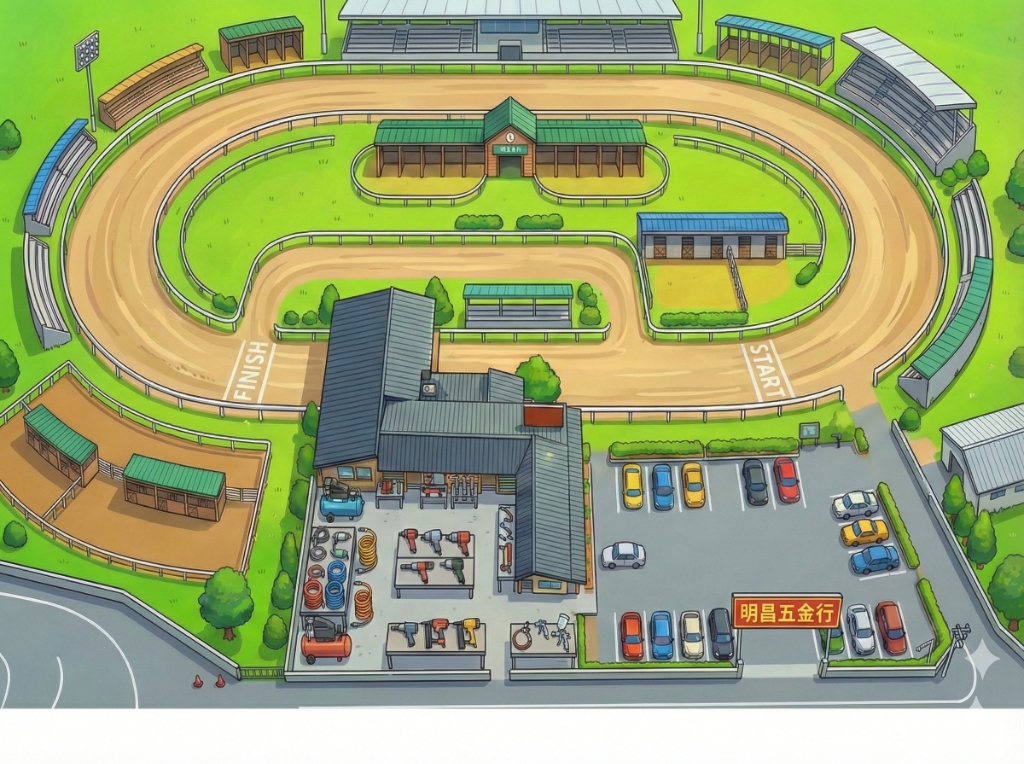
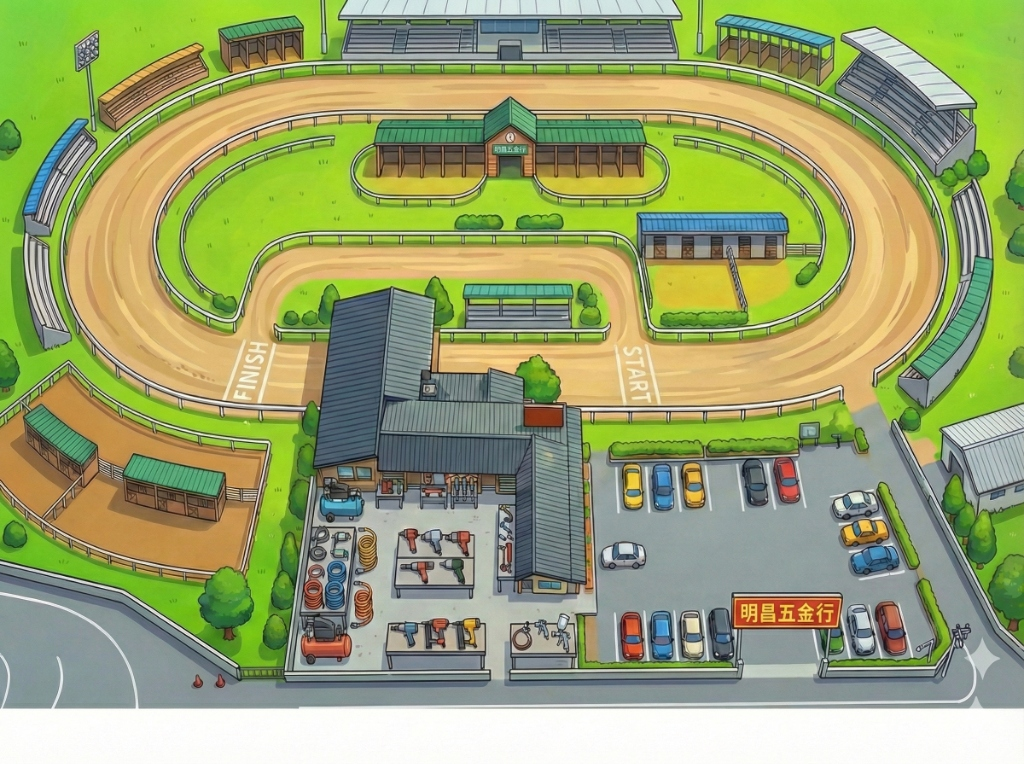
feat: 新增賽道路徑編輯器工具 (/path-editor) 與更新明昌背景圖

diff --git a/templates/path_editor.html b/templates/path_editor.html
@@ -1,0 +1,227 @@
+<!DOCTYPE html>
+<html>
+
+<head>
+    <title>Race Track Path Editor</title>
+    <style>
+        body {
+            font-family: Arial, sans-serif;
+            margin: 20px;
+            background: #f0f0f0;
+        }
+
+        .container {
+            display: flex;
+            flex-direction: column;
+            align-items: center;
+        }
+
+        .editor-area {
+            position: relative;
+            margin-top: 20px;
+            border: 2px solid #333;
+            cursor: crosshair;
+        }
+
+        #track-image {
+            max-width: 1000px;
+            width: 100%;
+            /* Responsive width */
+            display: block;
+        }
+
+        #canvas-overlay {
+            position: absolute;
+            top: 0;
+            left: 0;
+            width: 100%;
+            height: 100%;
+            pointer-events: none;
+            /* Let clicks pass through to image or wrapper */
+        }
+
+        .controls {
+            margin-top: 20px;
+            padding: 20px;
+            background: white;
+            border-radius: 8px;
+            box-shadow: 0 2px 5px rgba(0, 0, 0, 0.1);
+            width: 80%;
+            max-width: 800px;
+        }
+
+        textarea {
+            width: 100%;
+            height: 150px;
+            margin-top: 10px;
+            font-family: monospace;
+        }
+
+        button {
+            padding: 8px 16px;
+            background: #007bff;
+            color: white;
+            border: none;
+            border-radius: 4px;
+            cursor: pointer;
+            margin-right: 10px;
+        }
+
+        button:hover {
+            background: #0056b3;
+        }
+
+        button.reset {
+            background: #dc3545;
+        }
+
+        button.reset:hover {
+            background: #c82333;
+        }
+
+        .instructions {
+            margin-bottom: 10px;
+            color: #555;
+        }
+    </style>
+</head>
+
+<body>
+    <div class="container">
+        <h1>賽道以路徑編輯器 (Path Editor)</h1>
+
+        <div class="controls">
+            <div class="instructions">
+                <strong>使用說明：</strong><br>
+                1. 在下方的賽道圖上依序點擊，設定路徑點 (從 0 到 9)。<br>
+                2. 點擊 0 是起點，9 是終點，中間是轉折點。<br>
+                3. 完成後，複製下方的座標代碼，傳送給 AI。
+            </div>
+            <div>
+                <button onclick="undoLastPoint()">復原上一步 (Undo)</button>
+                <button class="reset" onclick="resetPath()">全部重設 (Reset)</button>
+            </div>
+
+            <h3>輸出座標 (JSON)</h3>
+            <textarea id="output" readonly></textarea>
+        </div>
+
+        <div class="editor-area" id="editor-area" onclick="handleMapClick(event)">
+            <img id="track-image" src="/static/images/mingchang_track.jpg" alt="Mingchang Track">
+            <canvas id="canvas-overlay"></canvas>
+        </div>
+    </div>
+
+    <script>
+        const trackImage = document.getElementById('track-image');
+        const canvas = document.getElementById('canvas-overlay');
+        const ctx = canvas.getContext('2d');
+        const output = document.getElementById('output');
+
+        let waypoints = [];
+
+        // Resize canvas to match image when loaded
+        trackImage.onload = function () {
+            resizeCanvas();
+        };
+        window.addEventListener('resize', resizeCanvas);
+
+        function resizeCanvas() {
+            canvas.width = trackImage.clientWidth;
+            canvas.height = trackImage.clientHeight;
+            drawPath();
+        }
+
+        function handleMapClick(event) {
+            const rect = trackImage.getBoundingClientRect();
+            // Get click position relative to the image
+            const x = event.clientX - rect.left;
+            const y = event.clientY - rect.top;
+
+            // Convert to percentage (0-100)
+            const percentX = Math.round((x / rect.width) * 100);
+            const percentY = Math.round((y / rect.height) * 100);
+
+            addPoint(percentX, percentY);
+        }
+
+        function addPoint(x, y) {
+            if (waypoints.length >= 10) {
+                alert("已達到最大點數 (10點: 0-9)。請復原或重設。");
+                return;
+            }
+            waypoints.push({ x: x, y: y });
+            updateOutput();
+            drawPath();
+        }
+
+        function undoLastPoint() {
+            waypoints.pop();
+            updateOutput();
+            drawPath();
+        }
+
+        function resetPath() {
+            waypoints = [];
+            updateOutput();
+            drawPath();
+        }
+
+        function drawPath() {
+            ctx.clearRect(0, 0, canvas.width, canvas.height);
+
+            if (waypoints.length === 0) return;
+
+            const width = canvas.width;
+            const height = canvas.height;
+
+            // Draw lines
+            ctx.beginPath();
+            ctx.lineWidth = 3;
+            ctx.strokeStyle = 'red';
+
+            waypoints.forEach((p, index) => {
+                const px = (p.x / 100) * width;
+                const py = (p.y / 100) * height;
+
+                if (index === 0) {
+                    ctx.moveTo(px, py);
+                } else {
+                    ctx.lineTo(px, py);
+                }
+            });
+            ctx.stroke();
+
+            // Draw points
+            waypoints.forEach((p, index) => {
+                const px = (p.x / 100) * width;
+                const py = (p.y / 100) * height;
+
+                ctx.beginPath();
+                ctx.arc(px, py, 8, 0, 2 * Math.PI);
+                ctx.fillStyle = 'yellow';
+                ctx.fill();
+                ctx.stroke();
+
+                // Draw number
+                ctx.fillStyle = 'black';
+                ctx.font = '12px Arial';
+                ctx.textAlign = 'center';
+                ctx.textBaseline = 'middle';
+                ctx.fillText(index, px, py);
+            });
+        }
+
+        function updateOutput() {
+            // Format as the JS array structure used in host.html
+            let jsonStr = "const mingchangWaypoints = [\n";
+            waypoints.forEach((p, i) => {
+                jsonStr += `    { x: ${p.x}, y: ${p.y} },   // ${i}\n`;
+            });
+            jsonStr += "];";
+            output.value = jsonStr;
+        }
+    </script>
+</body>
+
+</html>

diff --git a/server_render.py b/server_render.py
@@ -124,6 +124,11 @@ def play():
 def tutorial():
     return render_template('tutorial.html')
 
+@app.route('/path-editor')
+def path_editor():
+    """Tool for editing track path"""
+    return render_template('path_editor.html')
+
 @app.route('/api/themes')
 def api_themes():
     """Get list of available themes"""
